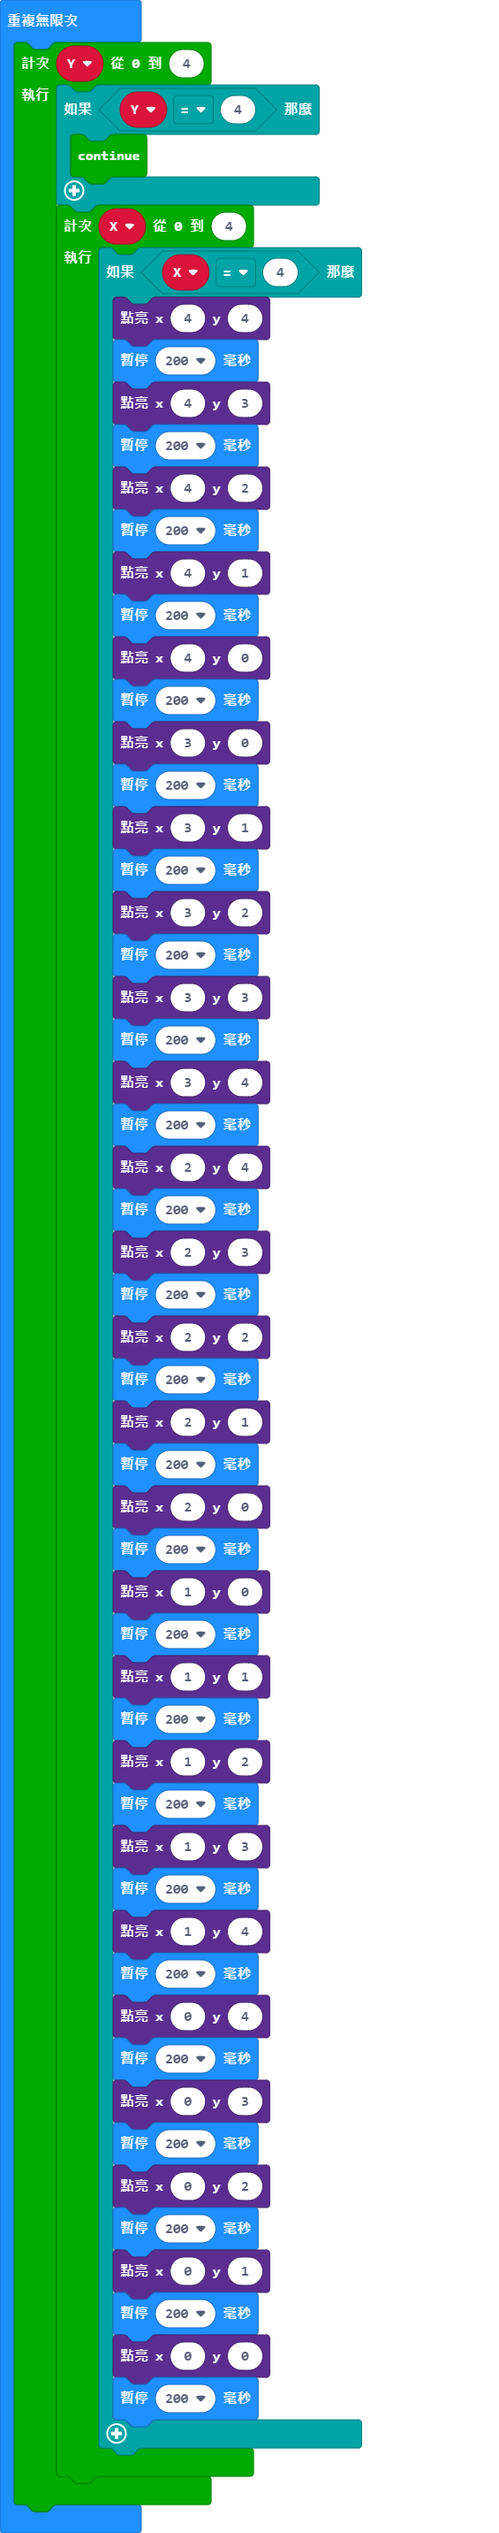
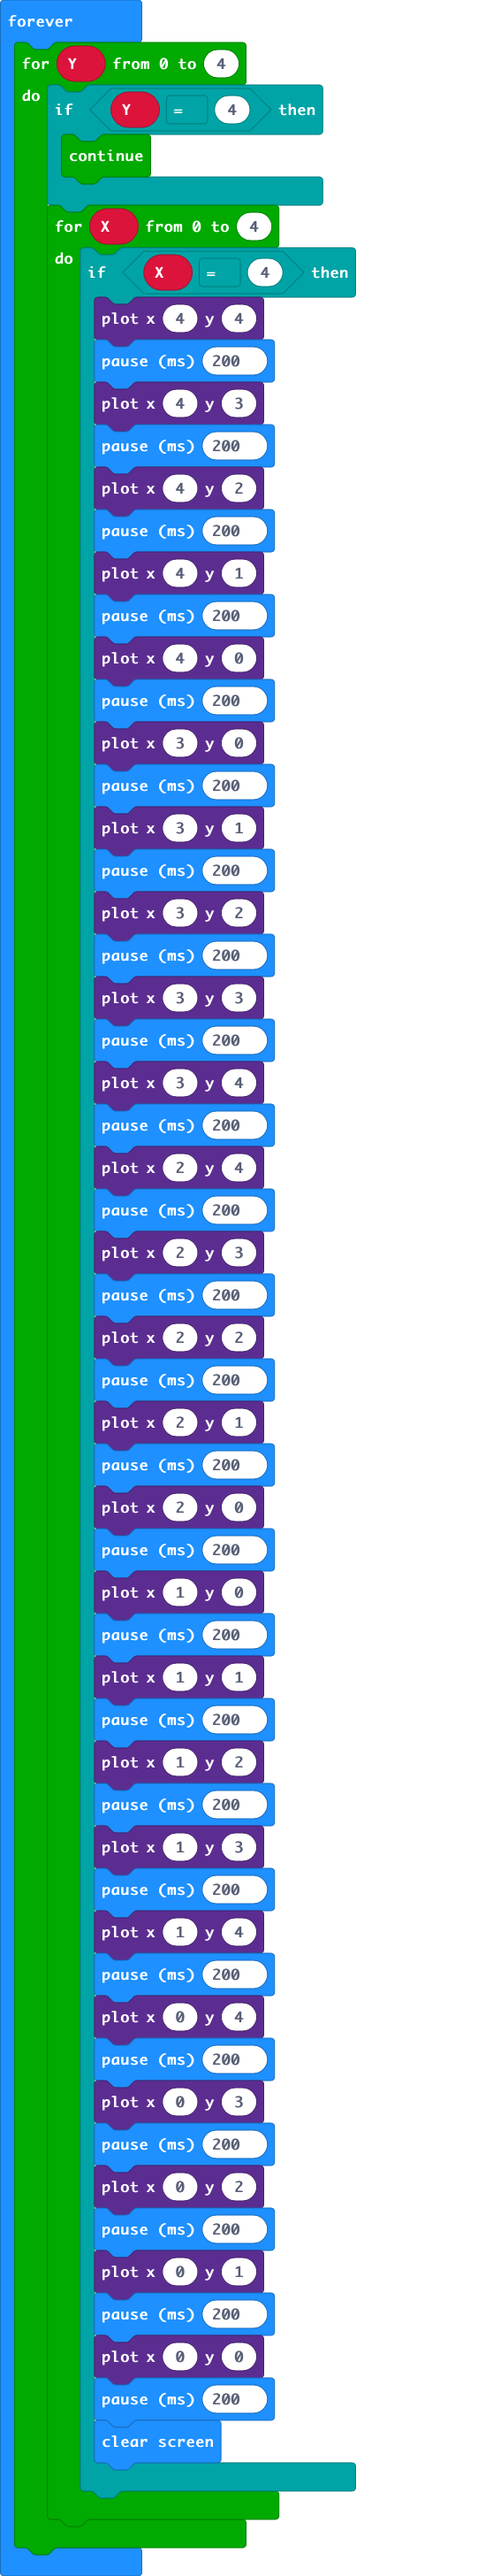
Update main.blocks, main.ts

Changed region(s): [[0.0, 0.0, 0.7312, 1.0]]

diff --git a/main.ts b/main.ts
@@ -55,6 +55,7 @@ basic.forever(function () {
                 basic.pause(200)
                 led.plot(0, 0)
                 basic.pause(200)
+                basic.clearScreen()
             }
         }
     }
